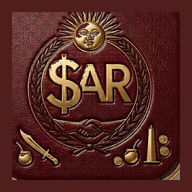
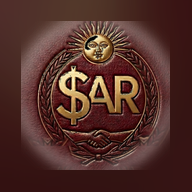
feat: iconos rediseñados — medallon central sobre cuero a sangre completa, sin marco ni adornos cortados (v3)

diff --git a/index.html b/index.html
@@ -9,7 +9,7 @@
 <meta name="apple-mobile-web-app-title" content="Finanzas">
 <title>Finanzas · Mateo</title>
 <link rel="manifest" href="manifest.json">
-<link rel="apple-touch-icon" href="icon-maskable-512.png?v=2">
+<link rel="apple-touch-icon" href="icon-maskable-512.png?v=3">
 <link rel="preconnect" href="https://fonts.googleapis.com">
 <link rel="preconnect" href="https://fonts.gstatic.com" crossorigin>
 <link href="https://fonts.googleapis.com/css2?family=DM+Sans:ital,opsz,wght@0,9..40,300;0,9..40,400;0,9..40,500;0,9..40,600;1,9..40,400&family=Outfit:wght@300;400;500;600;700;800&display=swap" rel="stylesheet">
